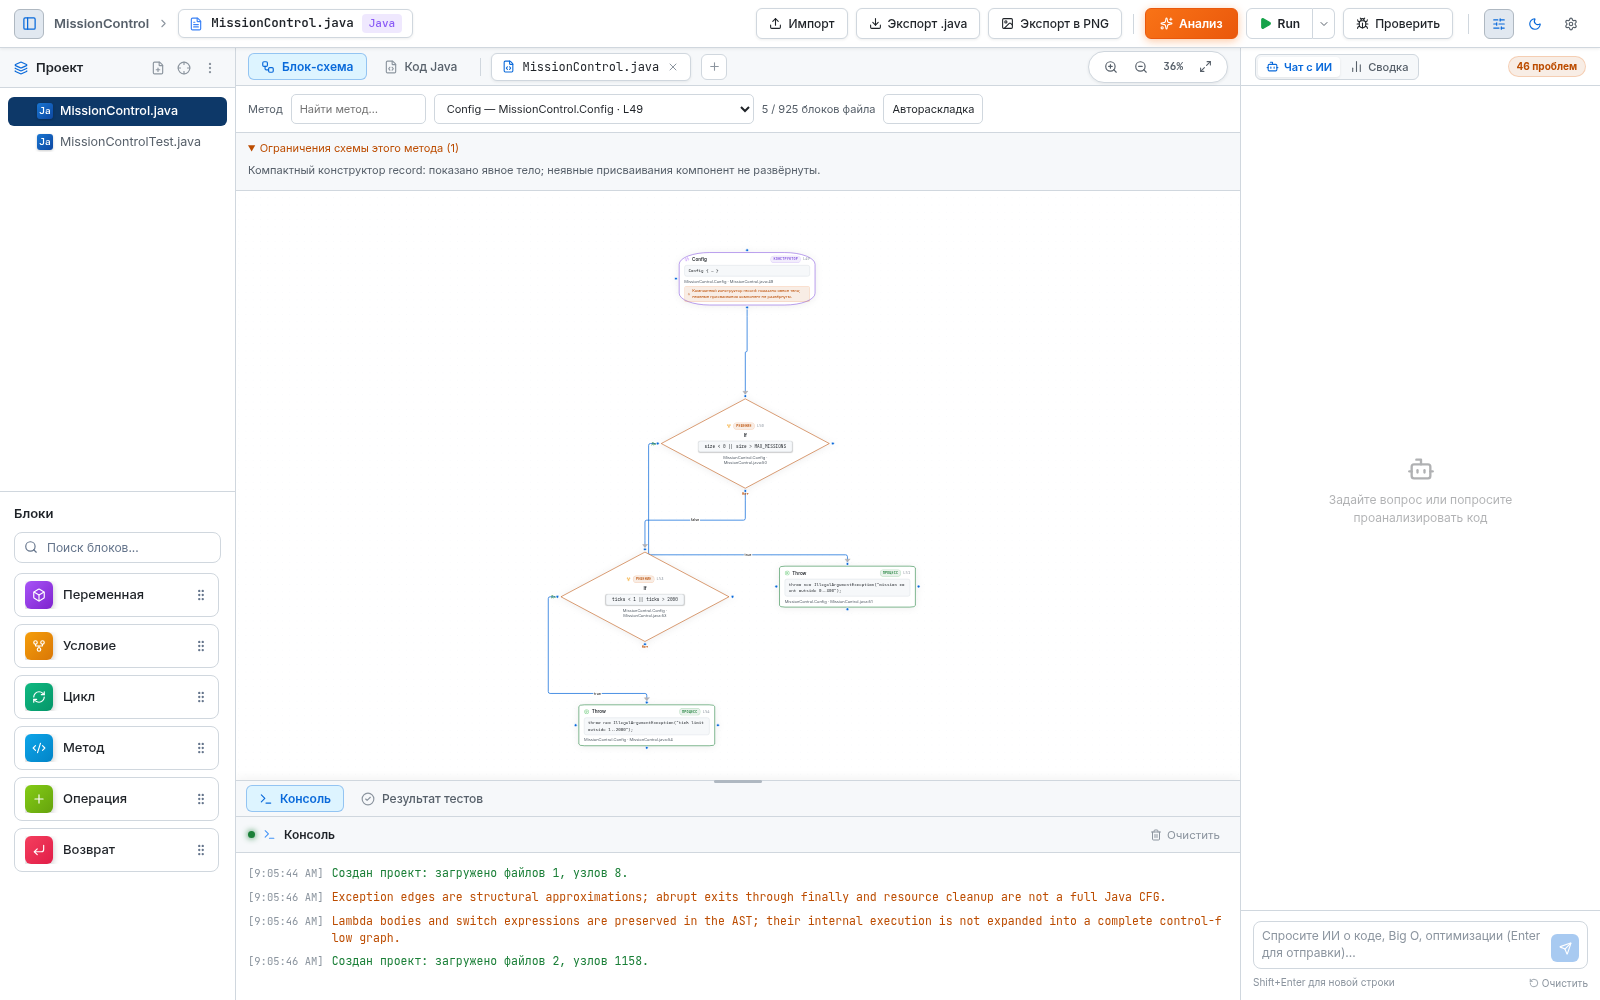
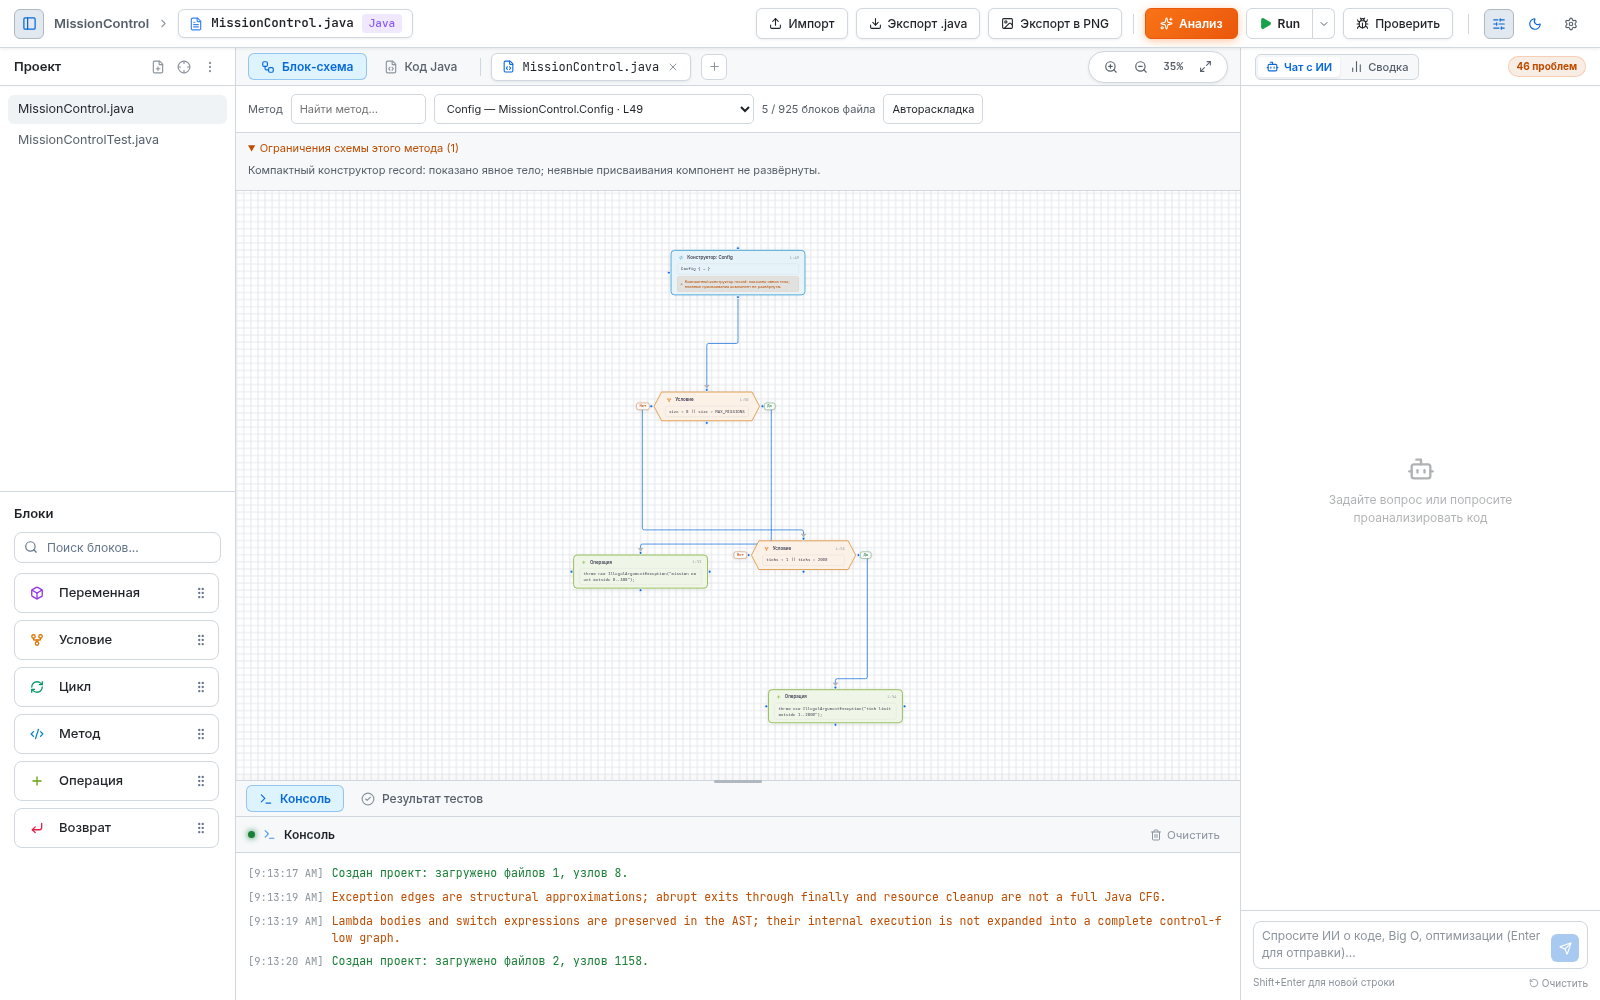
Keep switch case labels

diff --git a/backend/tests/browser/editor.spec.ts b/backend/tests/browser/editor.spec.ts
@@ -25,12 +25,12 @@ test('file and method navigation keeps graphs separate and case edits change rea
   const response = await edited;
   expect(response.status(), await response.text()).toBe(200);
   await expect(page.getByRole('dialog')).toBeHidden();
-  await page.getByRole('treeitem', { name: 'Ja Tools.java', exact: true }).click();
+  await page.getByRole('treeitem', { name: /Tools\.java$/ }).click();
   await expect(page.locator('.react-flow__node-methodNode')).toHaveCount(1);
   await expect(page.locator('.react-flow__node-methodNode')).toContainText('linear');
   await expect(page.locator('.react-flow__node')).not.toContainText(['Main.java']);
   await expect(page.locator('.react-flow__node-loopNode')).toContainText('int value : a');
-  await page.getByRole('treeitem', { name: 'Ja Main.java', exact: true }).click();
+  await page.getByRole('treeitem', { name: /Main\.java$/ }).click();
   await expect(page.getByRole('button', { name: 'Run', exact: true })).toBeEnabled();
   const verified = page.waitForResponse(r => r.url().endsWith('/verify'));
   await page.getByRole('button', { name: 'Run', exact: true }).click();
@@ -65,5 +65,5 @@ test('invalid source retains the last graph, displays file diagnostics and recov
   await restored;
   await expect(page.getByRole('status').filter({ hasText: 'последняя успешно разобранная версия' })).toHaveCount(0);
   await page.getByRole('button', { name: 'Блок-схема', exact: true }).click();
-  await expect(page.locator('.react-flow__node-methodNode')).toContainText('main');
+  await expect(page.locator('.react-flow__node-methodNode').filter({ hasText: /main/ })).toHaveCount(1);
 });

diff --git a/backend/tests/editor.test.ts b/backend/tests/editor.test.ts
@@ -32,6 +32,7 @@ test('graph resolves labeled jumps, hides opaque expression internals and separa
     int expression(int x) { return switch(x) { case 1 -> { int v=1; yield v; } default -> 0; }; }
     int cleanup() { try { return 1; } finally { System.out.println(1); } }
     record Coordinate(int row, int column) { Coordinate { if(row<0) throw new IllegalArgumentException("row"); } }
+    int choose(int x) { switch(x) { case 0: return 7; default: return 9; } }
   }` }]);
   const stop = parsed.nodes.find(n => n.code === 'break search;')!;
   const next = parsed.nodes.find(n => n.code === 'continue search;')!;
@@ -53,6 +54,10 @@ test('graph resolves labeled jumps, hides opaque expression internals and separa
   assert.deepEqual(edited.errors, []);
   assert.ok(edited.nodes.some(n => n.methodId === compact.id && n.code === 'column = Math.max(column, 0);'));
   const result = graph(parsed);
+  const switchNode = parsed.nodes.find(n => n.astKind === 'SwitchStmt')!;
+  const cases = result.edges.filter(e => e.source === switchNode.id);
+  assert.deepEqual(cases.map(e => e.label).sort(), ['[0]', 'default']);
+  assert.ok(cases.every(e => e.sourceHandle === 'out-bottom'));
   assert.ok(result.edges.some(e => e.source === next.id && e.targetHandle === 'loop-in'));
   assert.ok(result.edges.every(e => result.nodes.some(n => n.id === e.source) && result.nodes.some(n => n.id === e.target)));
   for (let i=0;i<result.nodes.length;i++) for(let j=i+1;j<result.nodes.length;j++) {

diff --git a/backend/scripts/stress-mission-browser.ts b/backend/scripts/stress-mission-browser.ts
@@ -99,10 +99,12 @@ try {
   await expect(page.locator('.monaco-editor .view-lines')).toContainText('Config {');
   report.sourceNavigation = true;
   await page.getByRole('button', { name: 'Блок-схема', exact: true }).click();
-  await page.getByRole('treeitem', { name: 'Ja MissionControlTest.java', exact: true }).click();
-  assert.ok((await page.locator('.react-flow__node').allTextContents()).every(text => text.includes('MissionControlTest.java:')));
+  await page.getByRole('treeitem', { name: /MissionControlTest\.java$/ }).click();
+  const testIds = new Set(snapshot.graph.nodes.filter(node => node.data.source.file === 'MissionControlTest.java').map(node => node.id));
+  const visibleIds = await page.locator('.react-flow__node').evaluateAll(nodes => nodes.map(node => (node as HTMLElement).dataset.id));
+  assert.ok(visibleIds.length > 0 && visibleIds.every(id => id && testIds.has(id)));
   report.fileNavigation = true;
-  await page.getByRole('treeitem', { name: 'Ja MissionControl.java', exact: true }).click();
+  await page.getByRole('treeitem', { name: /MissionControl\.java$/ }).click();
   const shortest = options.find(option => option.title?.startsWith('shortest —'))!;
   await page.getByLabel('Метод схемы').selectOption(shortest.id);
   await page.getByRole('button', { name: 'Вписать в экран', exact: true }).click();

diff --git a/backend/src/services/graph.ts b/backend/src/services/graph.ts
@@ -72,9 +72,8 @@ export function graph(result: EngineResult) {
       const isCondition = source?.kind === 'condition';
       const isIfBlock = isCondition && source?.astKind !== 'SwitchStmt';
       // В блоке если («IfStmt») стрелка истинного условия (ведущая к результату) ВСЕГДА выходит из правой части блока (out-right)
-      const isYes = e.label === 'true' || e.label === 'Да' || e.label === 'да' ||
-        (isIfBlock && !isNo) ||
-        (isCondition && target?.kind === 'return' && !isNo);
+      // A switch case keeps its Java label even when its first statement returns.
+      const isYes = isIfBlock && !isNo;
       return {
         id: `${e.source}:${e.target}:${i}`, ...e,
         sourceHandle: isCondition

diff --git a/docs/audits/mission-control-2026-10-25/README.md b/docs/audits/mission-control-2026-10-25/README.md
@@ -48,7 +48,11 @@
 
 Через реальный интерфейс изменён порядок частей условия в `Config`. После AST-перегенерации всего большого файла настоящий javac успешен, 16 JUnit-тестов прошли, вывод совпал с оригиналом на заданном stdin (`matched_on_inputs`). Проверены переход из блока к нужной строке Java и выбор отдельной схемы тестового файла. Ошибок JavaScript не зарегистрировано.
 
-Локальное доказательство: [browser.json](browser.json), [схема конструктора](compact-constructor.png), [Java/JUnit](java-and-junit.png), [схема Дейкстры](shortest-path.png).
+Локальное доказательство: [browser.json](browser.json), [схема конструктора](compact-constructor.png), [Java/JUnit](java-and-junit.png), [схема Дейкстры](shortest-path.png). Эти снимки и браузерный прогон повторены после включения восьми новых коммитов коллеги до `f7f3e91`, включая новые стили и направление веток.
+
+При совмещении найден ещё один дефект: ветка switch, ведущая к return, получала подпись «Да» вместо настоящего case/default. Исправлено определение булевой ветки: правило «Да справа» применяется к if, а подписи switch сохраняются. Короткий регрессионный пример проверяет `case 0: return 7; default: return 9;`.
+
+Один параллельный локальный повтор завершился HTTP 503 `RUNNER_CLEANUP_FAILED`: Docker не успел удалить том за установленное время на машине с заполненным swap. Оставшийся тестовый том удалён. Последовательный повтор на итоговом коде успешно завершил Java/JUnit, навигацию и все 100 схем. Этот неудачный запуск не засчитан как успешный; полный прогон не доказывает устойчивость к исчерпанию ресурсов хоста.
 
 ## Что этот прогон не позволяет объявить готовым
 
